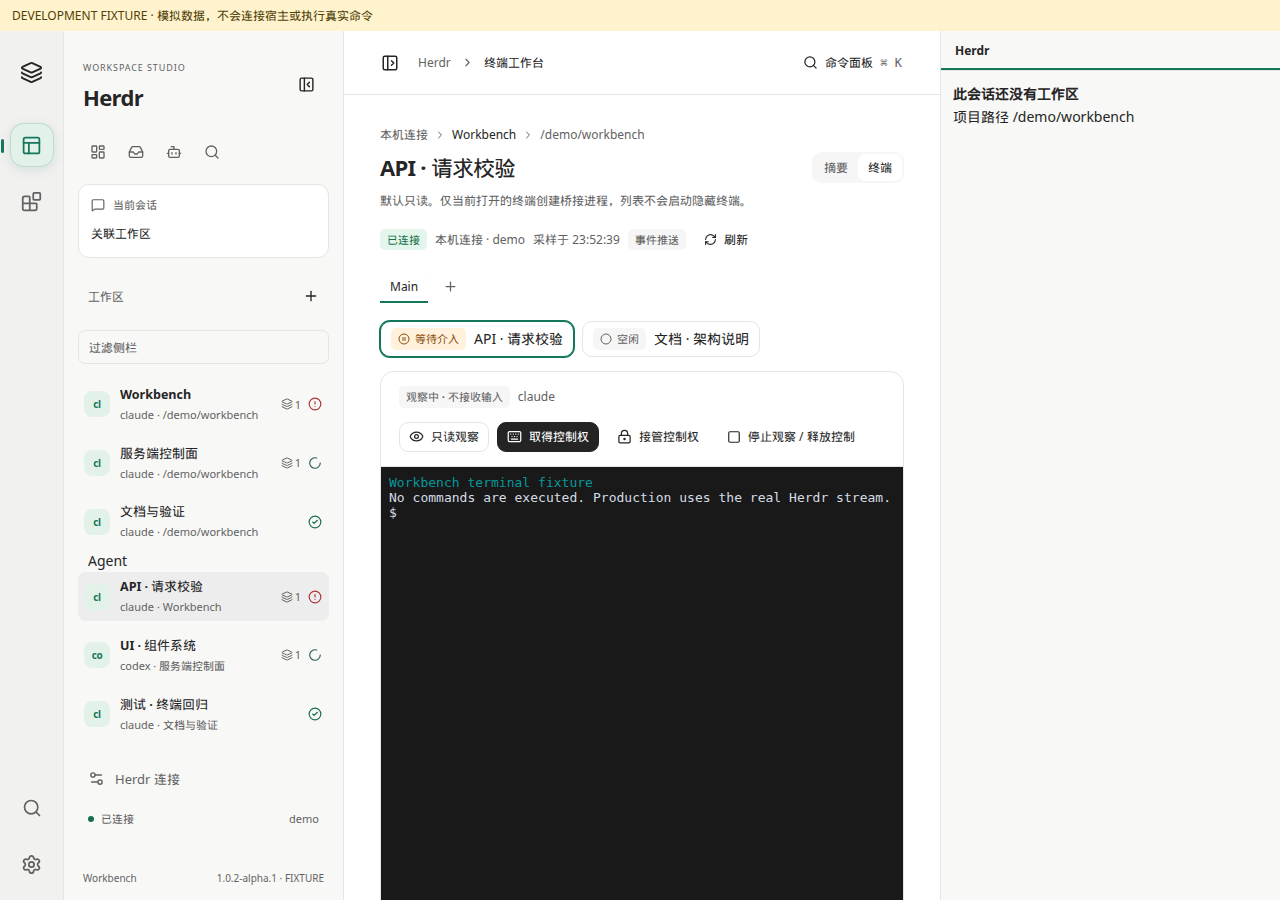
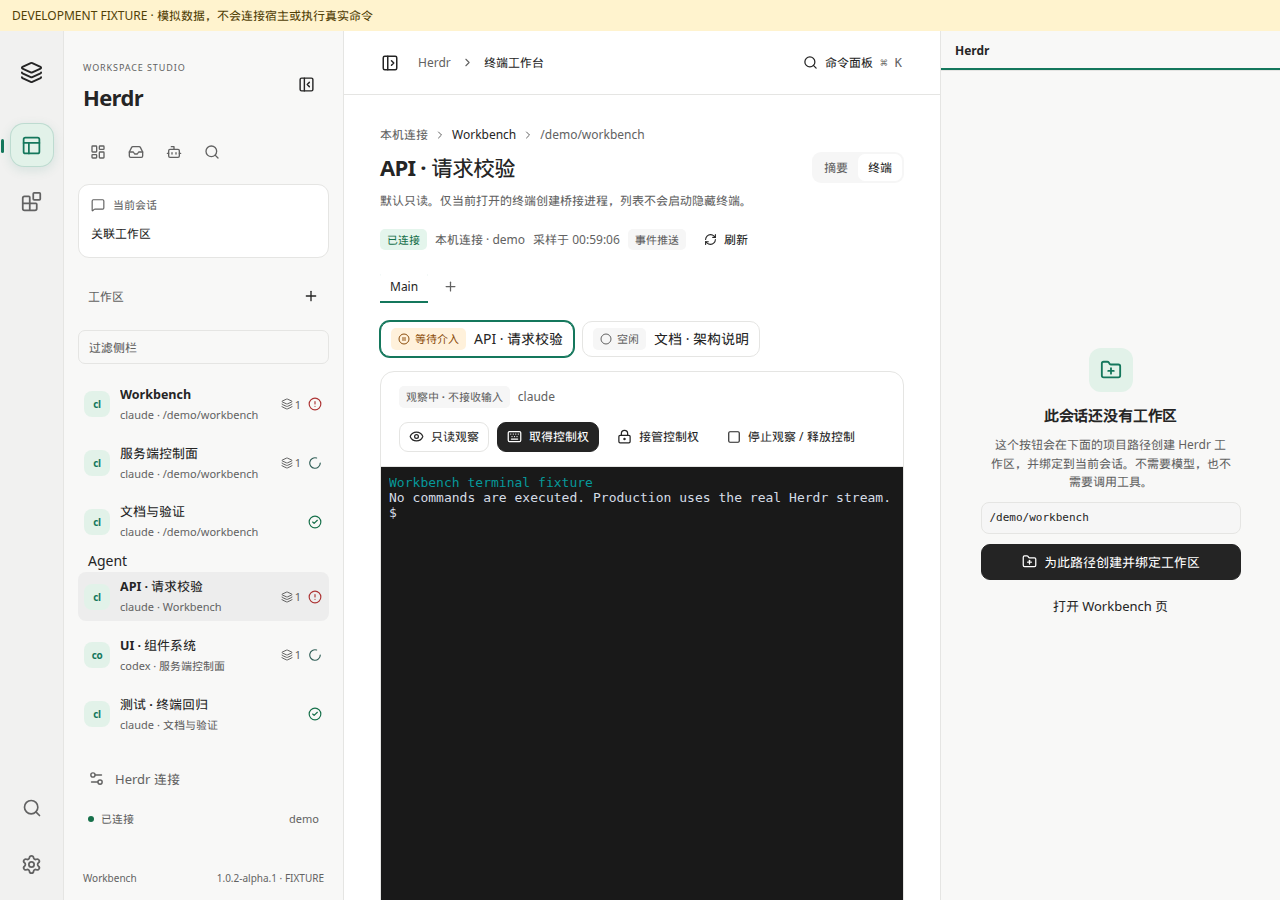
Refresh dev-workbench screenshots and keep tab lists valid.
The empty Herdr rail now shows the create-and-bind state. The new-tab control sits beside the tab list so it is no longer an illegal tablist child.

Changed region(s): [[0.75, 0.56, 0.9688, 0.6844], [0.7812, 0.4044, 0.9688, 0.56], [0.75, 0.0933, 0.875, 0.1556]]

diff --git a/modules/herdr/src/web/terminal/page.tsx b/modules/herdr/src/web/terminal/page.tsx
@@ -28,7 +28,7 @@ export function TerminalPage({route}:PageProps) {
     </header>
     {query.isLoading?<Skeleton/>:query.error?<ErrorNotice error={query.error} retry={()=>void query.refetch()}/>:query.data&&<>
       <Health snapshot={query.data} onRefresh={()=>void query.refetch()}/>
-      {workspace&&<div className="wb-tab-strip" role="tablist" aria-label={h('tabs')}>{tabs.map(tab=><button type="button" role="tab" key={resourceKey(tab.ref)} aria-selected={tab.ref.id===selected?.tabId} onClick={()=>{const pane=panes.find(item=>item.tabId===tab.ref.id);if(pane)openPane(pane)}}>{tab.label||tab.ref.id}</button>)}{ui.capabilities.has('herdr.manage')&&workspace.ownership!=='external'&&<TabCreate workspace={workspace.ref} stale={query.data.stale}/>}</div>}
+      {workspace&&<div className="wb-tab-strip"><div role="tablist" aria-label={h('tabs')}>{tabs.map(tab=><button type="button" role="tab" key={resourceKey(tab.ref)} aria-selected={tab.ref.id===selected?.tabId} onClick={()=>{const pane=panes.find(item=>item.tabId===tab.ref.id);if(pane)openPane(pane)}}>{tab.label||tab.ref.id}</button>)}</div>{ui.capabilities.has('herdr.manage')&&workspace.ownership!=='external'&&<TabCreate workspace={workspace.ref} stale={query.data.stale}/>}</div>}
       {!!siblings.length&&<div className="wb-pane-canvas" aria-label={h('panes')}>{siblings.map(pane=><button type="button" key={resourceKey(pane.ref)} className="wb-pane-chip" aria-current={selected&&sameResource(selected.ref,pane.ref)?'page':undefined} disabled={query.data?.stale} onClick={()=>openPane(pane)}><Status state={pane.state}/><span>{pane.label||pane.ref.id}</span></button>)}</div>}
       {target&&!selected&&<Notice tone="warning">{ui.t('RESOURCE_CHANGED')}</Notice>}
       {selected&&!summary?<PaneSession key={resourceKey(selected.ref)+':'+(route.params.visit??'')} pane={selected} stale={query.data.stale} initialMode={!chosen&&route.params.intent==='control'?'control':'observe'}/>:selected&&summary?<Card><div className="wb-section-header"><div><h2>{selected.label||selected.ref.id}</h2><p className="wb-small wb-muted">{selected.agent??h('shellKind')} · {selected.cwd??'—'}</p></div><Status state={selected.state}/></div><p className="wb-small wb-muted">{h('viewFirst')}</p></Card>:<EmptyState icon={<Terminal size={30}/>} title={h('selectPane')} description={h('viewFirst')}/>}

diff --git a/packages/ui/src/styles.css b/packages/ui/src/styles.css
@@ -264,7 +264,8 @@
 .wb-root .wb-segment{display:inline-flex;padding:2px;border-radius:9px;background:var(--wb-raised)}
 .wb-root .wb-segment button{border:0;background:transparent;color:var(--wb-muted);border-radius:7px;padding:4px 10px;cursor:pointer;font-size:12px}
 .wb-root .wb-segment button[aria-pressed="true"]{background:var(--wb-surface);color:var(--wb-text)}
-.wb-root .wb-tab-strip{display:flex;align-items:center;gap:4px;overflow:auto;padding-bottom:2px}
+.wb-root .wb-tab-strip,.wb-root .wb-tab-strip [role="tablist"]{display:flex;align-items:center;gap:4px;min-width:0}
+.wb-root .wb-tab-strip{overflow:auto;padding-bottom:2px}
 .wb-root .wb-tab-strip button{border:0;background:transparent;color:var(--wb-muted);border-radius:8px 8px 0 0;padding:7px 10px;cursor:pointer;font-size:12px}
 .wb-root .wb-tab-strip button[aria-selected="true"]{color:var(--wb-text);box-shadow:inset 0 -2px 0 var(--wb-brand)}
 .wb-root .wb-pane-canvas{display:flex;gap:8px;flex-wrap:wrap}
